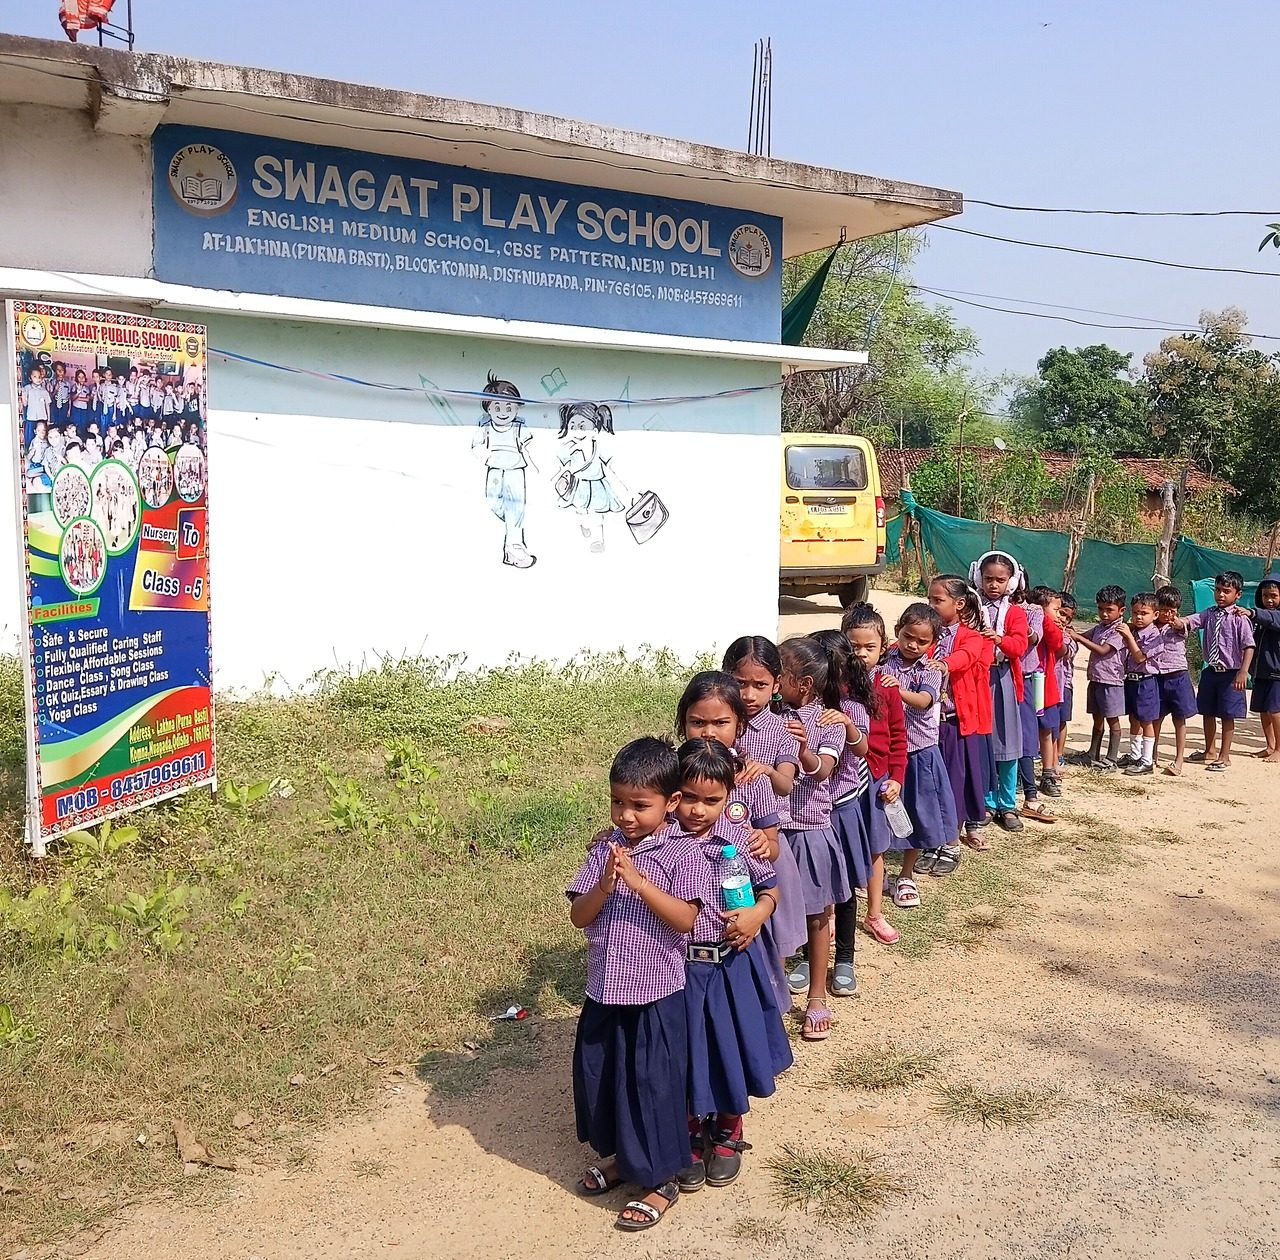
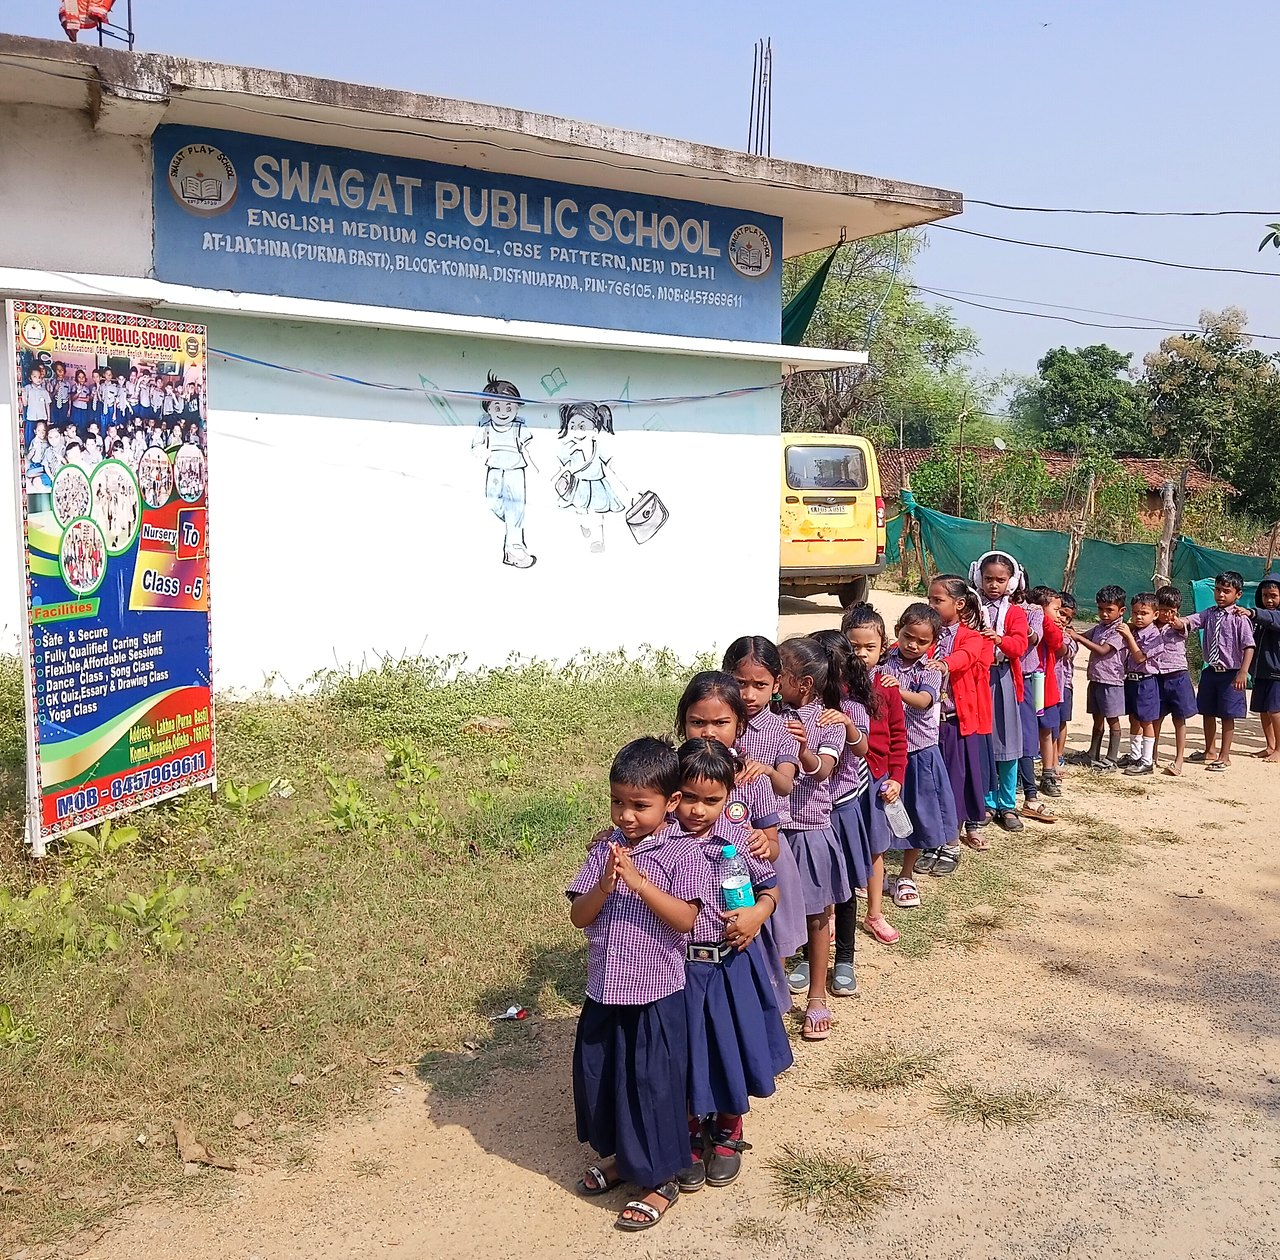
Refactor code structure for improved readability and maintainability

Changed region(s): [[0.1875, 0.1238, 0.5625, 0.2167], [0.0312, 0.2476, 0.125, 0.2786], [0.0625, 0.619, 0.0938, 0.65]]

diff --git a/design-og/og.html b/design-og/og.html
@@ -1,9 +1,10 @@
 <!doctype html>
 <!--
-  Source for public/og-image.jpg (1200x630 link preview).
+  Source for public/og-image-v2.jpg (1200x630 link preview).
   Render: google-chrome --headless=new --hide-scrollbars --allow-file-access-from-files --force-device-scale-factor=2 --window-size=1200,630 --virtual-time-budget=8000 --screenshot=og2x.png file://$PWD/og.html
   then downscale og2x.png to 1200x630 and save as JPEG (quality ~80, keep under 300 KB for WhatsApp).
-  photo.jpg is a crop of images/sps-lakhna-school-building-students-morning-line-lakhna.jpg.
+  photo.jpg is a crop of images/sps-lakhna-school-building-students-morning-line-lakhna.jpg with the
+  signboard re-lettered to "SWAGAT PUBLIC SCHOOL" by reletter-signboard.py (uses the sign's own painted glyphs).
   After changing the image, give it a new filename and update site.ogImage so preview caches refresh.
 -->
 <html><head><meta charset="utf-8">

diff --git a/src/lib/site.ts b/src/lib/site.ts
@@ -76,7 +76,7 @@ export const site = {
   gradesPermitted: "Nursery to Class 8",
   // Link-preview image for WhatsApp, Facebook, X, LinkedIn. JPEG under 300 KB so WhatsApp shows it.
   // Source: design-og/og.html (real school building photo). Rename the file when it changes, to bust preview caches.
-  ogImage: "/og-image.jpg",
+  ogImage: "/og-image-v2.jpg",
   ogImageType: "image/jpeg",
   ogImageAlt:
     "Swagat Public School, Lakhna, Nuapada, Odisha: students in purple uniform lined up outside the school building in Purna Basti, Lakhna. English medium, CBSE pattern, Nursery to Class 5. Admissions open 2026-27.",

diff --git a/design-og/reletter-signboard.py b/design-og/reletter-signboard.py
@@ -1,0 +1,246 @@
+"""Re-letter the painted signboard 'SWAGAT PLAY SCHOOL' -> 'SWAGAT PUBLIC SCHOOL'
+using only the sign's own painted glyphs. Pure Pillow (no numpy)."""
+import sys, random
+from PIL import Image, ImageOps, ImageFilter, ImageChops
+
+SRC, OUT, DBG = sys.argv[1], sys.argv[2], sys.argv[3]
+random.seed(7)
+
+full = ImageOps.exif_transpose(Image.open(SRC)).convert('RGB')
+BX, BY = int(4080 * 0.08), int(3060 * 0.09)          # board crop offset in full image
+board = full.crop((BX, BY, BX + 1632, BY + 581))
+K, X0 = 0.142, 295
+W, H = board.size
+rect = board.transform((W, H), Image.AFFINE, (1, 0, 0, K, 1, -K * X0), resample=Image.BICUBIC)
+RX, RY = 260, 80                                       # band offset in rectified board
+band = rect.crop((RX, RY, RX + 1200, RY + 145))
+BW, BH = band.size
+bp = band.load()
+
+ROW0, ROW1, COL0, COL1 = 10, 128, 18, 1172            # where headline paint lives
+
+# ---- 1. crude paint mask -> background plate by normalized blur ----
+crude = Image.new('L', band.size, 0); cp = crude.load()
+for y in range(ROW0, ROW1):
+    for x in range(COL0, COL1):
+        R, G, B = bp[x, y]
+        if (B - R) < 26 and R > 70:
+            cp[x, y] = 255
+crude_d = crude.filter(ImageFilter.MaxFilter(9))
+crude_w = crude.filter(ImageFilter.MaxFilter(21))
+bgmask = ImageChops.invert(crude_w)
+masked = Image.composite(band, Image.new('RGB', band.size, 0), bgmask)
+
+def norm_blur(radius):
+    a = masked.filter(ImageFilter.GaussianBlur(radius)).load()
+    w = bgmask.filter(ImageFilter.GaussianBlur(radius)).load()
+    return a, w
+
+a1, w1 = norm_blur(18)
+a2, w2 = norm_blur(45)
+plate = Image.new('RGB', band.size); pp = plate.load()
+for y in range(BH):
+    for x in range(BW):
+        if w1[x, y] > 18:
+            a, w = a1[x, y], w1[x, y]
+        else:
+            a, w = a2[x, y], max(w2[x, y], 1)
+        pp[x, y] = tuple(min(255, int(c * 255 / w + 0.5)) for c in a)
+
+# ---- 2. soft alpha matte by projecting onto (plate -> paint colour) ----
+paint_samples = [bp[x, y] for y in range(ROW0, ROW1) for x in range(COL0, COL1)
+                 if cp[x, y] and crude_d.getpixel((x, y))]
+# robust paint colour: median of brightest-neutral pixels
+paint_samples.sort(key=lambda c: c[0] + c[1] + c[2])
+mid = paint_samples[len(paint_samples) * 2 // 3: len(paint_samples) * 9 // 10]
+P0 = tuple(sorted(c[i] for c in mid)[len(mid) // 2] for i in range(3))
+
+alpha = Image.new('L', band.size, 0); ap = alpha.load()
+fg = Image.new('RGB', band.size, P0); fp = fg.load()
+for y in range(ROW0, ROW1):
+    for x in range(COL0, COL1):
+        if not crude_d.getpixel((x, y)):
+            continue
+        px, bg = bp[x, y], pp[x, y]
+        d = [P0[i] - bg[i] for i in range(3)]
+        dd = sum(v * v for v in d) or 1
+        t = sum((px[i] - bg[i]) * d[i] for i in range(3)) / dd
+        t = 0.0 if t < 0.06 else min(1.0, t)
+        ap[x, y] = int(t * 255)
+        if t > 0.25:
+            fp[x, y] = tuple(max(0, min(255, int((px[i] - (1 - t) * bg[i]) / t))) for i in range(3))
+
+# ---- 3. camera-like grain for erased areas ----
+res = []
+for y in range(ROW0, ROW1, 2):
+    for x in range(COL0, COL1, 3):
+        if not crude_d.getpixel((x, y)):
+            res.append(sum(bp[x, y]) / 3 - sum(pp[x, y]) / 3)
+mu = sum(res) / len(res)
+sd = (sum((r - mu) ** 2 for r in res) / len(res)) ** 0.5
+grain = Image.new('L', band.size); gp = grain.load()
+for y in range(BH):
+    for x in range(BW):
+        gp[x, y] = max(0, min(255, int(128 + random.gauss(0, sd * 1.15))))
+grain = grain.filter(ImageFilter.GaussianBlur(0.7))
+gp = grain.load()
+erased = band.copy(); ep = erased.load()
+erase_m = crude.filter(ImageFilter.MaxFilter(15)).filter(ImageFilter.GaussianBlur(2.5))
+em = erase_m.load()
+for y in range(BH):
+    for x in range(BW):
+        m = em[x, y] / 255
+        if m <= 0:
+            continue
+        n = (gp[x, y] - 128) * 1.6
+        bg = pp[x, y]
+        clean = tuple(bg[i] + n for i in range(3))
+        ep[x, y] = tuple(max(0, min(255, int(bp[x, y][i] * (1 - m) + clean[i] * m))) for i in range(3))
+
+# ---- 4. glyph extraction (RGBA = recovered paint colour + matte) ----
+rgba = fg.copy().convert('RGBA'); rgba.putalpha(alpha)
+
+def glyph(x0, x1, y0=ROW0, y1=ROW1):
+    g = rgba.crop((x0, y0, x1 + 1, y1))
+    bb = g.getchannel('A').point(lambda v: 255 if v > 40 else 0).getbbox()
+    return g.crop(bb), (x0 + bb[0], y0 + bb[1])
+
+def colprofile(g):
+    a = g.getchannel('A').load(); w, h = g.size
+    return [sum(1 for y in range(h) if a[x, y] > 128) for x in range(w)]
+
+gP, posP = glyph(514, 577)
+gL, posL = glyph(587, 639)
+gC, posC = glyph(882, 936)
+gH, posH = glyph(941, 997)
+gO, posO = glyph(1001, 1056)
+TOP, HT = posP[1], gP.size[1]                       # frame for PUBLIC letters
+
+def fit_h(g, h):
+    w = max(1, round(g.size[0] * h / g.size[1]))
+    return g.convert('RGBa').resize((w, h), Image.LANCZOS).convert('RGBA')
+
+def stem_cols(g, frac=0.8):
+    prof = colprofile(g); h = g.size[1]
+    return [x for x, c in enumerate(prof) if c > h * frac]
+
+
+def merge(size, pieces):
+    """Union of glyph pieces; where they overlap, keep the pixel deepest inside a stroke."""
+    out = Image.new('RGBA', size, (0, 0, 0, 0)); op = out.load()
+    pri = Image.new('L', size, 0); pr = pri.load()
+    for img, (ox, oy) in pieces:
+        er = img.getchannel('A').filter(ImageFilter.MinFilter(7)).load()
+        ip = img.load()
+        for y in range(img.size[1]):
+            for x in range(img.size[0]):
+                X, Y = x + ox, y + oy
+                if not (0 <= X < size[0] and 0 <= Y < size[1]):
+                    continue
+                c = ip[x, y]
+                if c[3] == 0:
+                    continue
+                key = er[x, y]
+                cur = op[X, Y]
+                if (key, c[3]) > (pr[X, Y], cur[3]):
+                    op[X, Y] = c; pr[X, Y] = key
+    return out
+
+# I = stem of L (full-height columns only)
+lc = stem_cols(gL)
+gI = gL.crop((min(lc) - 1, 0, max(lc) + 2, gL.size[1]))
+# trim the foot: keep rows, but clear any alpha right of the stem (none after crop)
+
+# U = stems of H (crossbar removed) stretched to O's width + bottom half of O, cross-faded
+hO = fit_h(gO, HT + 4)                            # O overshoots baseline a little
+hH = fit_h(gH, HT).convert('RGBa').resize((hO.size[0], HT), Image.LANCZOS).convert('RGBA')
+hc = stem_cols(hH)
+split_l = [x for x in hc if x < hH.size[0] / 2]; split_r = [x for x in hc if x > hH.size[0] / 2]
+# match each stem to the O's side stroke at the join row (outer and inner edge)
+oa = hO.getchannel('A').load()
+def span(y):
+    xs = [x for x in range(hO.size[0]) if oa[x, y] > 128]
+    return (xs[-1] - xs[0]) if xs else 0
+jr = max(range(hO.size[1] // 3, hO.size[1] * 2 // 3), key=lambda y: (span(y), -abs(y - hO.size[1] // 2)))
+row = [x for x in range(hO.size[0]) if oa[x, jr] > 128]
+runs = []
+for x in row:
+    if runs and x == runs[-1][1] + 1: runs[-1][1] = x
+    else: runs.append([x, x])
+(l0, l1), (r0, r1) = runs[0], runs[-1]
+stems = Image.new('RGBA', hO.size, (0, 0, 0, 0))
+for cols, (d0, d1) in ((split_l, (l0, l1)), (split_r, (r0, r1))):
+    c0, c1 = min(cols), max(cols) + 1
+    piece = hH.crop((c0, 0, c1, hH.size[1])).convert('RGBa').resize((d1 - d0 + 1, hH.size[1]), Image.LANCZOS).convert('RGBA')
+    stems.alpha_composite(piece, (d0, 0))
+Uw = hO.size[0]
+midrow = HT // 2
+gU = merge((Uw, HT + 4), [
+    (stems.crop((0, 0, Uw, jr + 6)), (0, 0)),
+    (hO.crop((0, jr, Uw, hO.size[1])), (0, jr)),
+])
+
+# B = stem of P + P's bowl twice (top bowl and a slightly wider bottom bowl)
+pc = stem_cols(gP)
+sx1 = max(pc) + 1
+prof = colprofile(gP)
+a = gP.getchannel('A').load()
+# bowl bottom = lowest row with paint right of the stem
+bowl_rows = [y for y in range(gP.size[1]) if any(a[x, y] > 128 for x in range(sx1 + 4, gP.size[0]))]
+bowl_bot = max(bowl_rows) + 1
+cx = (sx1 + gP.size[0]) // 2
+bar_t = 0
+for y in range(gP.size[1]):
+    if a[cx, y] > 128: bar_t += 1
+    elif bar_t: break
+bowl = gP.crop((sx1 - 3, 0, gP.size[0], bowl_bot))
+stem = gP.crop((0, 0, sx1 + 2, gP.size[1]))
+hb1 = (HT + bar_t) // 2 - 1                       # top bowl a touch smaller than the bottom one
+hb2 = HT - hb1 + bar_t
+top_b = bowl.convert('RGBa').resize((bowl.size[0], hb1), Image.LANCZOS).convert('RGBA')
+bot_b = bowl.convert('RGBa').resize((bowl.size[0] + 3, hb2), Image.LANCZOS).convert('RGBA')
+gB = merge((sx1 - 3 + bot_b.size[0], HT), [(stem, (0, 0)), (top_b, (sx1 - 3, 0)), (bot_b, (sx1 - 3, HT - hb2))])
+
+gCs = fit_h(gC, HT + 3)                              # C from SCHOOL is further away: scale up
+gLs = gL
+
+# ---- 5. compose the new line ----
+line = Image.new('RGBA', (1600, BH), (0, 0, 0, 0))
+sw = rgba.crop((COL0, ROW0, 480, ROW1))              # SWAGAT, untouched paint
+sc = rgba.crop((812, ROW0, 1168, ROW1))              # SCHOOL, untouched paint
+x = 0
+line.alpha_composite(sw, (x, ROW0)); x += sw.size[0]
+start_sw_end = x
+gap_word, gap = 34, 10
+x = (476 - COL0) + gap_word + 6
+for g, dy in ((gP, 0), (gU, 0), (gB, 0), (gLs, posL[1] - TOP), (gI, posL[1] - TOP), (gCs, -1)):
+    line.alpha_composite(g, (x, TOP + dy))
+    x += g.size[0] + gap
+x += 30 - gap
+line.alpha_composite(sc, (x - 4, ROW0)); x += sc.size[0] - 4
+total = x
+target = 1166 - COL0
+s = target / total
+line = line.crop((0, 0, total, BH)).convert('RGBa').resize((target, BH), Image.LANCZOS).convert('RGBA')
+
+out_band = erased.convert('RGBA')
+out_band.alpha_composite(line, (COL0, 0))
+out_band = out_band.convert('RGB')
+
+# ---- 6. put back: only where paint changed, feathered ----
+new_a = Image.new('L', band.size, 0); new_a.paste(line.getchannel('A'), (COL0, 0))
+change = ImageChops.lighter(alpha, new_a).filter(ImageFilter.MaxFilter(9)).filter(ImageFilter.GaussianBlur(3))
+rect2 = rect.copy(); rect2.paste(out_band, (RX, RY))
+cmask = Image.new('L', rect.size, 0); cmask.paste(change, (RX, RY))
+inv = (1, 0, 0, -K, 1, K * X0)
+board2 = rect2.transform((W, H), Image.AFFINE, inv, resample=Image.BICUBIC)
+cmask_b = cmask.transform((W, H), Image.AFFINE, inv, resample=Image.BILINEAR)
+board_out = Image.composite(board2, board, cmask_b)
+full.paste(board_out, (BX, BY))
+full.save(OUT, quality=95, subsampling=0)
+
+dbg = Image.new('RGB', (1200, 145 * 4), 'white')
+dbg.paste(band, (0, 0)); dbg.paste(erased, (0, 145)); dbg.paste(out_band, (0, 290))
+dbg.paste(board_out.resize((1200, 427)).crop((0, 0, 1200, 145)), (0, 435))
+dbg.save(DBG)
+print('paint', P0, 'grain sd', round(sd, 2), 'condense', round(s, 3))
